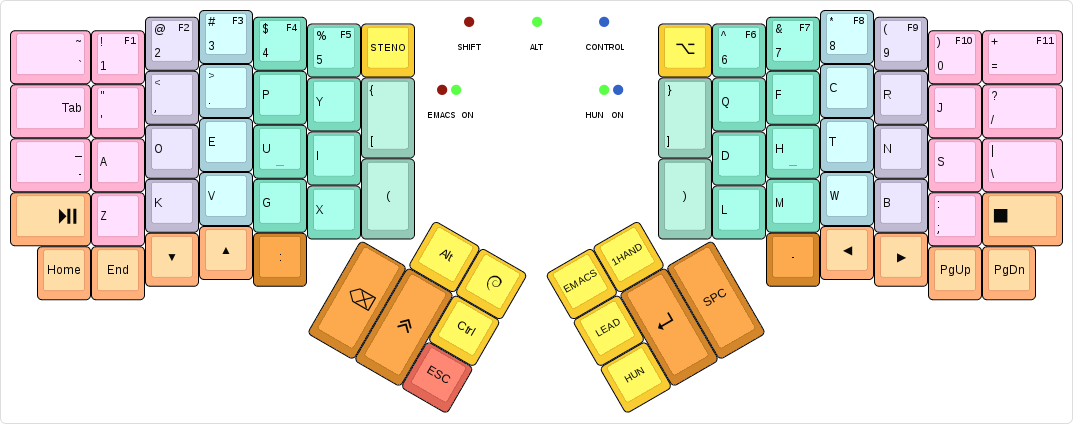
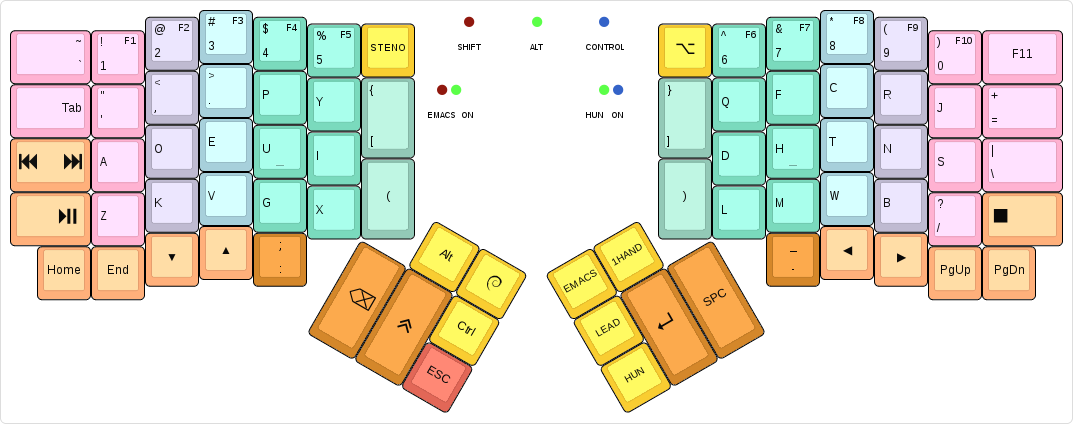
BASE: Move a few keys around
Move ? to the left pinky, and shift down the rest on the right side.
Drop the MINUS on the left pinky position, and replace it with media
next/prev. Also turns the colon into a macro, that can will input a
semi-colon when shifted.

These together fix #39.

Changed region(s): [[0.0, 0.3066, 0.0923, 0.4599]]

diff --git a/keymap.c b/keymap.c
@@ -30,6 +30,8 @@ enum {
   // Buttons that do extra stuff
   A_GUI,
   A_ESC,
+  A_MPN,
+  A_COLN,
 
   // Function / number keys
   KF_1, // 1, F1
@@ -134,13 +136,13 @@ const uint16_t PROGMEM keymaps[][MATRIX_ROWS][MATRIX_COLS] = {
 /* Keymap 0: Base Layer
  *
  * ,-----------------------------------------------------.           ,-----------------------------------------------------.
- * |        `~ | 1 F1 | 2 F2 | 3 F3 | 4 F4 | 5 F5 | Apps |           | Apps | 6 F6 | 7 F7 | 8 F8 | 9 F9 | 0 F10| =     F11 |
+ * |        `~ | 1 F1 | 2 F2 | 3 F3 | 4 F4 | 5 F5 | Apps |           | Apps | 6 F6 | 7 F7 | 8 F8 | 9 F9 | 0 F10|       F11 |
  * |-----------+------+------+------+------+-------------|           |------+------+------+------+------+------+-----------|
- * |       Tab |   '  |   ,  |   .  |   P  |   Y  |   [  |           |  ]   |   F  |   G  |   C  |   R  |  L   | /         |
+ * |       Tab |   '  |   ,  |   .  |   P  |   Y  |   [  |           |  ]   |   F  |   G  |   C  |   R  |  L   | =         |
  * |-----------+------+------+------+------+------|      |           |      |------+------+------+------+------+-----------|
- * |         - |   A  |   O  |   E  |   U  |   I  |------|           |------|   D  |   H  |   T  |   N  |  S   | \         |
+ * | Next/Prev |   A  |   O  |   E  |   U  |   I  |------|           |------|   D  |   H  |   T  |   N  |  S   | \         |
  * |-----------+------+------+------+------+------|   (  |           |  )   |------+------+------+------+------+-----------|
- * | Play/Pause|   ;  |   Q  |   J  |   K  |   X  |      |           |      |   B  |   M  |   W  |   V  |  Z   |      Stop |
+ * | Play/Pause|   /  |   Q  |   J  |   K  |   X  |      |           |      |   B  |   M  |   W  |   V  |  Z   |      Stop |
  * `-----------+------+------+------+------+-------------'           `-------------+------+------+------+------+-----------'
  *     |  Home | End  | Down |  Up  |   :  |                                       |   -  | Left | Right| PgUp | PgDn  |
  *     `-----------------------------------'                                       `-----------------------------------'
@@ -156,17 +158,17 @@ const uint16_t PROGMEM keymaps[][MATRIX_ROWS][MATRIX_COLS] = {
 // left hand
  KC_GRV             ,M(KF_1)     ,M(KF_2)     ,M(KF_3),M(KF_4),M(KF_5),KC_APP
 ,KC_TAB             ,KC_QUOT     ,KC_COMM     ,KC_DOT ,KC_P   ,KC_Y   ,KC_LBRC
-,KC_MINS            ,KC_A        ,KC_O        ,KC_E   ,KC_U   ,KC_I
-,KC_MPLY            ,KC_SCLN     ,KC_Q        ,KC_J   ,KC_K   ,KC_X   ,KC_LPRN
-,KC_HOME            ,KC_END      ,KC_DOWN     ,KC_UP  ,KC_COLN
+,M(A_MPN)           ,KC_A        ,KC_O        ,KC_E   ,KC_U   ,KC_I
+,KC_MPLY            ,KC_SLSH     ,KC_Q        ,KC_J   ,KC_K   ,KC_X   ,KC_LPRN
+,KC_HOME            ,KC_END      ,KC_DOWN     ,KC_UP  ,M(A_COLN)
 
                                                             ,F(F_ALT),F(F_GUI)
                                                                      ,F(F_CTRL)
                                                     ,KC_BSPC,F(F_SFT),M(A_ESC)
 
                                                                 // right hand
-                                                               ,KC_APP  ,M(KF_6),M(KF_7),M(KF_8),M(KF_9)     ,M(KF_10)    ,M(KF_11)
-                                                               ,KC_RBRC ,KC_F   ,KC_G   ,KC_C   ,KC_R        ,KC_L        ,KC_SLSH
+                                                               ,KC_APP  ,M(KF_6),M(KF_7),M(KF_8),M(KF_9)     ,M(KF_10)    ,KC_F11
+                                                               ,KC_RBRC ,KC_F   ,KC_G   ,KC_C   ,KC_R        ,KC_L        ,KC_EQL
                                                                         ,KC_D   ,KC_H   ,KC_T   ,KC_N        ,KC_S        ,KC_BSLS
                                                                ,KC_RPRN ,KC_B   ,KC_M   ,KC_W   ,KC_V        ,KC_Z        ,KC_MSTP
                                                                                 ,KC_MINS,KC_LEFT,KC_RGHT     ,KC_PGUP     ,KC_PGDN
@@ -406,13 +408,13 @@ const uint16_t PROGMEM keymaps[][MATRIX_ROWS][MATRIX_COLS] = {
 /* Keymap 8: Experimental layer
  *
  * ,-----------------------------------------------------.           ,-----------------------------------------------------.
- * |        `~ | 1 F1 | 2 F2 | 3 F3 | 4 F4 | 5 F5 | Plvr |           | Apps | 6 F6 | 7 F7 | 8 F8 | 9 F9 | 0 F10| =     F11 |
+ * |        `~ | 1 F1 | 2 F2 | 3 F3 | 4 F4 | 5 F5 | Plvr |           | Apps | 6 F6 | 7 F7 | 8 F8 | 9 F9 | 0 F10|       F11 |
  * |-----------+------+------+------+------+-------------|           |------+------+------+------+------+------+-----------|
- * |       Tab |   '  |   ,  |   .  |   P  |   Y  |   [  |           |  ]   |   Q  |   F  |   C  |   R  |  J   | /         |
+ * |       Tab |   '  |   ,  |   .  |   P  |   Y  |   [  |           |  ]   |   Q  |   F  |   C  |   R  |  J   | =         |
  * |-----------+------+------+------+------+------|      |           |      |------+------+------+------+------+-----------|
- * |         - |   A  |   O  |   E  |   U  |   I  |------|           |------|   D  |   H  |   T  |   N  |  S   | \         |
+ * | Next/Prev |   A  |   O  |   E  |   U  |   I  |------|           |------|   D  |   H  |   T  |   N  |  S   | \         |
  * |-----------+------+------+------+------+------|   (  |           |  )   |------+------+------+------+------+-----------|
- * | Play/Pause|   Z  |   K  |   V  |   G  |   X  |      |           |      |   L  |   M  |   W  |   B  |  ;   |      Stop |
+ * | Play/Pause|   Z  |   K  |   V  |   G  |   X  |      |           |      |   L  |   M  |   W  |   B  |  /   |      Stop |
  * `-----------+------+------+------+------+-------------'           `-------------+------+------+------+------+-----------'
  *     |  Home | End  | Down |  Up  |   :  |                                       |   -  | Left | Right| PgUp | PgDn  |
  *     `-----------------------------------'                                       `-----------------------------------'
@@ -428,19 +430,19 @@ const uint16_t PROGMEM keymaps[][MATRIX_ROWS][MATRIX_COLS] = {
 // left hand
  KC_GRV             ,M(KF_1)     ,M(KF_2)     ,M(KF_3),M(KF_4),M(KF_5),M(A_PLVR)
 ,KC_TAB             ,KC_QUOT     ,KC_COMM     ,KC_DOT ,KC_P   ,KC_Y   ,KC_LBRC
-,KC_MINS            ,KC_A        ,KC_O        ,KC_E   ,KC_U   ,KC_I
+,M(A_MPN)           ,KC_A        ,KC_O        ,KC_E   ,KC_U   ,KC_I
 ,KC_MPLY            ,KC_Z        ,KC_K        ,KC_V   ,KC_G   ,KC_X   ,KC_LPRN
-,KC_HOME            ,KC_END      ,KC_DOWN     ,KC_UP  ,KC_COLN
+,KC_HOME            ,KC_END      ,KC_DOWN     ,KC_UP  ,M(A_COLN)
 
                                                             ,F(F_ALT),F(F_GUI)
                                                                      ,F(F_CTRL)
                                                     ,KC_BSPC,F(F_SFT),M(A_ESC)
 
                                                                 // right hand
-                                                               ,KC_APP  ,M(KF_6),M(KF_7),M(KF_8),M(KF_9)     ,M(KF_10)    ,M(KF_11)
-                                                               ,KC_RBRC ,KC_Q   ,KC_F   ,KC_C   ,KC_R        ,KC_J        ,KC_SLSH
+                                                               ,KC_APP  ,M(KF_6),M(KF_7),M(KF_8),M(KF_9)     ,M(KF_10)    ,KC_F11
+                                                               ,KC_RBRC ,KC_Q   ,KC_F   ,KC_C   ,KC_R        ,KC_J        ,KC_EQL
                                                                         ,KC_D   ,KC_H   ,KC_T   ,KC_N        ,KC_S        ,KC_BSLS
-                                                               ,KC_RPRN ,KC_L   ,KC_M   ,KC_W   ,KC_B        ,KC_SCLN     ,KC_MSTP
+                                                               ,KC_RPRN ,KC_L   ,KC_M   ,KC_W   ,KC_B        ,KC_SLSH     ,KC_MSTP
                                                                                 ,KC_MINS,KC_LEFT,KC_RGHT     ,KC_PGUP     ,KC_PGDN
 
                                                                ,OSL(EMACS),M(OH_LEFT)
@@ -541,6 +543,47 @@ const macro_t *action_get_macro(keyrecord_t *record, uint8_t id, uint8_t opt)
           }
         } else {
           unregister_code (KC_ESC);
+        }
+        break;
+
+      case A_COLN:
+        if (keyboard_report->mods & MOD_BIT(KC_LSFT) ||
+            ((get_oneshot_mods() & MOD_BIT(KC_LSFT)) && !has_oneshot_mods_timed_out())) {
+          int oneshot = ((get_oneshot_mods() & MOD_BIT(KC_LSFT)) && !has_oneshot_mods_timed_out());
+
+          if (record->event.pressed) {
+            if (oneshot)
+              clear_oneshot_mods ();
+            unregister_code (KC_LSFT);
+
+            register_code (KC_SCLN);
+            unregister_code (KC_SCLN);
+            if (!oneshot)
+              register_code (KC_LSFT);
+          }
+        } else {
+          return MACRODOWN (D(RSFT), T(SCLN), U(RSFT), END);
+        }
+        break;
+
+      case A_MPN:
+        if (record->event.pressed) {
+          if (keyboard_report->mods & MOD_BIT(KC_LSFT) ||
+              ((get_oneshot_mods() & MOD_BIT(KC_LSFT)) && !has_oneshot_mods_timed_out())) {
+            int oneshot = ((get_oneshot_mods() & MOD_BIT(KC_LSFT)) && !has_oneshot_mods_timed_out());
+
+            if (oneshot)
+              clear_oneshot_mods ();
+            unregister_code (KC_LSFT);
+
+            register_code (KC_MPRV);
+            unregister_code (KC_MPRV);
+
+            if (!oneshot)
+              register_code (KC_LSFT);
+          } else {
+            return MACRO (T(MNXT), END);
+          }
         }
         break;
 
